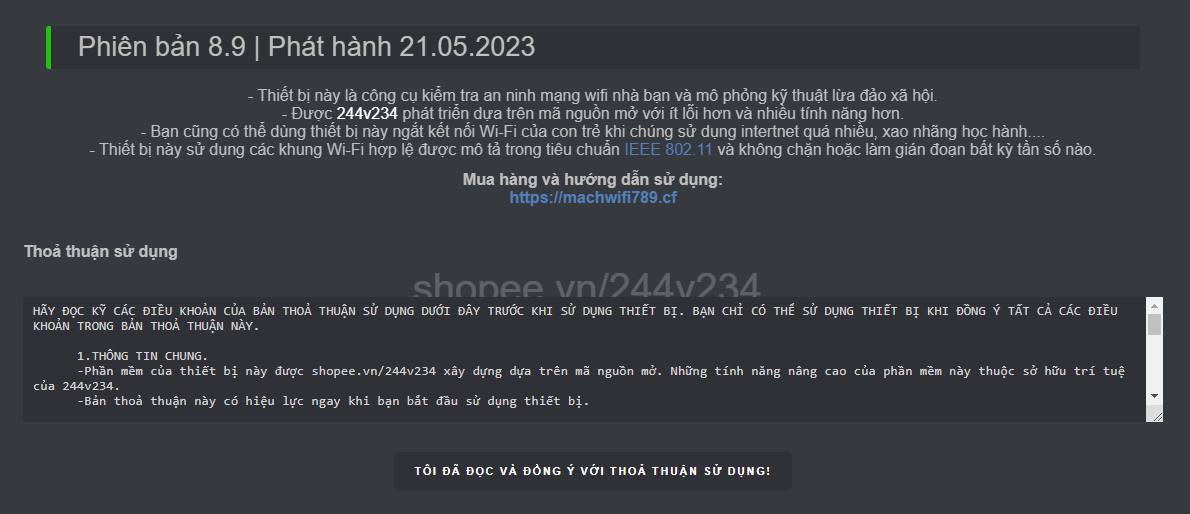
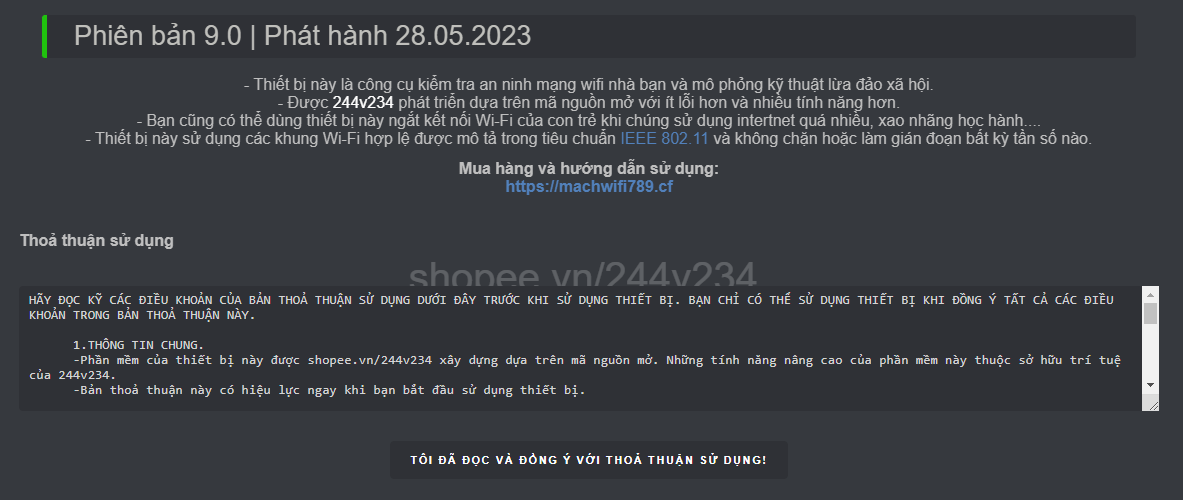
Add files via upload

diff --git a/index.html b/index.html
@@ -492,33 +492,32 @@ input[type="file"] {
 <body>
 
 <div id="content">
-<p class="tab blink"><span style="color:red;">Phiên bản 8.9 | Phát hành 21.05.2023</span></p>
+<p class="tab blink"><span style="color:red;">Phiên bản 9.0 | Phát hành 28.05.2023</span></p>
 <p><p>Quý khách có nhu cầu mua hàng vui lòng bấm vào link => <a href="https://shope.ee/89zuyFN1BZ" target="_blank">Shopee.vn/244v234</a></p>
 <h1>Giới thiệu</h1>
 <p>- Thiết bị này là công cụ kiểm tra an ninh mạng wifi nhà bạn và mô phỏng kỹ thuật lừa đảo xã hội. <!--- Được <span style="color:red;">Vuong234</span> phát triển dựa trên mã nguồn mở với ít lỗi hơn và nhiều chức năng hơn.</p> -->
 <p>- Bạn cũng có thể sử dụng thiết bị này để hạn chế những người hàng xóm hát karaoke vô ý thức, gây ảnh hưởng đến học tập, sinh hoạt, cũng như giấc ngủ của bạn và gia đình.</p>
 <p>- Ngắt kết nối wifi điện thoại, máy tính bảng của con cháu, để hạn chế các cháu chơi game, lên mạng quá nhiều, xao nhãng học hành.</p>
-<p>- Với việc áp dụng trí tuệ nhân tạo <span style="color:red;">espAI</span> để phát hiện và bám mục tiêu giúp thiết bị hoạt động hiệu quả hơn rất nhiều.</p>
-<p><span style="color:red;">LƯU Ý:</span> Dưới đây là video giới thiệu tính năng ngắt kết nối và lấy mật khẩu wifi sử dụng <span style="color:red;">Trí tuệ nhân tạo AI.</span></p><br>
+<p>- Với việc áp dụng trí tuệ nhân tạo <span style="color:red;">espAI</span> để phát hiện và bám mục tiêu giúp thiết bị ngắt kết nối hiệu quả hơn.</p>
+<p>Video giới thiệu tính năng ngắt kết nối và lấy mật khẩu wifi sử dụng <span style="color:red;">Trí tuệ nhân tạo AI.</span></p><br>
 <iframe width="560" height="315" src="https://www.youtube.com/embed/zrCGF-sWOiU" title="YouTube video player" frameborder="0" allow="accelerometer; autoplay; clipboard-write; encrypted-media; gyroscope; picture-in-picture; web-share" allowfullscreen></iframe>
-<br><p>Video giới thiệu tính năng kích sóng wifi</p>
+<br><br><br><p>Video giới thiệu tính năng kích sóng wifi và nâng cấp phần mềm tự động.</p>
 <iframe width="560" height="315" src="https://www.youtube.com/embed/ZDWPB75MxEk" title="YouTube video player" frameborder="0" allow="accelerometer; autoplay; clipboard-write; encrypted-media; gyroscope; picture-in-picture; web-share" allowfullscreen></iframe>
-<br><p>Video giới thiệu tính năng kích sóng wifi</p>
+<br><br><br><p>Video giới thiệu tính năng spam wifi</p>
 <iframe width="560" height="315" src="https://www.youtube.com/embed/OtW4vTPuQG8" title="YouTube video player" frameborder="0" allow="accelerometer; autoplay; clipboard-write; encrypted-media; gyroscope; picture-in-picture; web-share" allowfullscreen></iframe>
-<br><p>Video giới thiệu tính năng l*y tài khoản</p>
+<br><br><br><p>Video giới thiệu tính năng l*y tài khoản</p>
 <iframe width="560" height="315" src="https://www.youtube.com/embed/UJaGDbcEnPg" title="YouTube video player" frameborder="0" allow="accelerometer; autoplay; clipboard-write; encrypted-media; gyroscope; picture-in-picture; web-share" allowfullscreen></iframe>
-<br><p>Video giới thiệu tính năng phiên bản 8.8</p>
+<br><br><br><p>Video giới thiệu tính năng phiên bản 8.8</p>
 <iframe width="560" height="315" src="https://www.youtube.com/embed/0jZfH1J7DQE" title="YouTube video player" frameborder="0" allow="accelerometer; autoplay; clipboard-write; encrypted-media; gyroscope; picture-in-picture; web-share" allowfullscreen></iframe>
 <h1>Các tính năng chính.</h1>
-<li>Ngắt kết nối wifi của những người hàng xóm hát karaoke vô ý thức, kéo xuống dưới để xem video chi tiết. Trí tuệ nhân tạo <span style="color:red;">espAI</span> sẽ bám theo mục tiêu đã chọn, dù mục tiêu có tắt nguồn sau đó mở lại, hoặc thay đổi tên, thay đổi kênh wifi, hay ẩn wifi thì <span style="color:red;">espAI</span> vẫn nhận ra và bám theo cho đến khi bạn bấm dừng hoặc rút nguồn.</li><br>
+<li>Ngắt kết nối wifi của những người hàng xóm hát karaoke vô ý thức, trí tuệ nhân tạo <span style="color:red;">espAI</span> sẽ bám theo mục tiêu đã chọn, dù mục tiêu có tắt nguồn sau đó mở lại, hoặc thay đổi tên, thay đổi kênh wifi, hay ẩn wifi thì <span style="color:red;">espAI</span> vẫn nhận ra và bám theo cho đến khi bạn bấm dừng hoặc rút nguồn.</li><br>
 <li>Biết được mạng đó có những thiết bị nào đang kết nối, ngắt riêng lẻ từng thiết bị (điện thoại, laptop, smartTV, máy tính bảng,...) đang kết nối với mạng wifi đó, thay vì ngắt nguyên 1 mạng wifi.</li><br>
 <li>Ngắt kết nối wifi của trẻ con, để hạn chế chúng sử dụng mạng internet quá nhiều.</li><br>
 <li>Phát hiện những thiết bị đang dùng trộm wifi nhà bạn.</li><br>
-<li>Tìm được tất các mạng wifi ẩn và ngắt kết nối.(<span style="color:red;">espAI</span>)</li><br>
-<li>Sử dụng <span style="color:red;">espAI</span> để lấy mật khẩu wifi (<span style="color:red;">espAI</span> sẽ nhận biết và bám theo 1 mục tiêu mà bạn muốn lấy mật khẩu. Nếu mục tiêu rút nguồn wifi, thiết bị cũng sẽ tự động ẩn wifi ảo. Khi wifi mục tiêu hiện lại, <span style="color:red;">espAI</span> sẽ mở lại wifi ảo. Mục tiêu đổi tên wifi, <span style="color:red;">espAI</span> cũng sẽ đổi tên wifi ảo theo mục tiêu và tiếp tục lấy mật khẩu đến khi thành công hoặc đến khi bạn rút nguồn thiết bị.)</li><br>
+<li><span style="color:red;">espAI</span> tìm được tất các mạng wifi ẩn và ngắt kết nối chúng.</li><br>
+<li>Tính năng lấy mật khẩu wifi sử dụng <span style="color:red;">espAI</span> để nhận biết và bám theo 1 mục tiêu mà bạn muốn lấy mật khẩu. Nếu mục tiêu rút nguồn wifi, thiết bị cũng sẽ tự động ẩn wifi ảo. Khi wifi mục tiêu hiện lại, <span style="color:red;">espAI</span> sẽ mở lại wifi ảo và tiếp tục lấy mật khẩu đến khi thành công hoặc đến khi bạn rút nguồn thiết bị.</li><br>
 <li>L*y tài khoản Facebook, Google, Zalo, Garena, TikTok, Instagram.</li><br>
 <li>Spam tất cả các mạng wifi tìm được, hoặc tạo mạng wifi ảo theo ý bạn.</li><br>
-<li>Viết kịch bản để thiết bị tự động thực hiện theo mà bạn không cần thao tác gì thêm.</li><br>
 <li>Phát hiện mạch wifi789 đang ngắt kết nối wifi gần đó.</li><br>
 <li>Tự động ngắt kết nối tất cả các mạng wifi xung quanh.(<span style="color:red;">espAI</span>)</li><br>
 <li>Có thể tắt wifi điều khiển sau khi bấm "Ngắt Kết Nối" để tránh gây sự chú ý của những người hát karaoke vô ý thức.</li><br>
@@ -544,12 +543,12 @@ Tính năng BÁM THEO 1 MỤC TIÊU ĐÃ CHỌN - BÁM THEO TẤT CẢ CÁC MỤ
 8. Tính năng lấy TK Facebook, Google, Garena, Zalo, TikTok, Instagram chỉ mang tính chất giáo dục. Bạn tuyệt đối không dùng tính năng này cho mục đích xấu.<br><br>
 <img width="90%" src="5.jpg"></img><br><br>
 </p>
-<br><h2>Giao diện l*y mật khẩu Wifi và tài khoản Facebook, Google, Garena, Zalo, TikTok</h2><br><br>
+<br><br><h2>Giao diện l*y mật khẩu Wifi và tài khoản Facebook, Google, Garena, Zalo, TikTok</h2><br><br>
 <p>
 <img width="30%" src="4.PNG"></img> <img width="30%" src="6.PNG"></img><img width="30%" src="5.PNG"></img>
-<br><h2>Giao diện l*y tài khoản Facebook, Google, Garena</h2><br>
+<br><br><h2>Giao diện l*y tài khoản Facebook, Google, Garena</h2><br>
 <img width="30%" src="7.PNG"></img> <img width="30%" src="8.PNG"></img> <img width="30%" src="9.PNG"></img><br>
-<br><h2>Giao diện l*y tài khoản Zalo, TikTok, và mật khẩu thu được</h2><br>
+<br><br><h2>Giao diện l*y tài khoản Zalo, TikTok, và mật khẩu thu được</h2><br>
 <img width="30%" src="10.PNG"></img> <img width="30%" src="11.PNG"></img> <img width="30%" src="12.PNG"></img><br>
 <br><br>
 </p>
@@ -558,214 +557,18 @@ Tính năng BÁM THEO 1 MỤC TIÊU ĐÃ CHỌN - BÁM THEO TẤT CẢ CÁC MỤ
 	<p>-	Hướng anten của thiết bị về phía nhà hàng xóm.</p>
 	<p>-	Số âm ở cột sóng càng nhỏ (màu xanh lá), thì modem wiﬁ hàng xóm càng gần với bạn.</p>
 	<p>-	19h - 22h là thời điểm l*y mật khẩu wiﬁ hiệu quả nhất! Vì thời điểm này nhà hàng xóm có nhiều người đang kết nối wiﬁ.</p>
-	<p>-	Cần tư vấn hoặc hỗ trợ vui lòng nhắn tin cho mình <a href="https://shope.ee/89zuyFN1BZ" target="_blank">Shopee.vn/244v234</a></p>
+	<p>-	Cần tư vấn hoặc hỗ trợ vui lòng gọi Zalo(không cần kết bạn) cho mình 0971.282.336</p>
 <marquee>Mua hàng vui lòng truy cập <a href="https://shope.ee/89zuyFN1BZ" target="_blank">Shopee.vn/244v234</a></marquee>
-<h1>Tính Năng Dòng Lệnh</h1>
-<p>
-<li>Đây là tính năng nâng cao, dành cho khách hàng muốn có những trải nghiệm mới lạ với thiết bị.<br></li>
-<li>Bạn sẽ sử dụng câu lệnh để điều khiển thiết bị thay vì thao tác trên giao diện web.<br> </li>
-<li>Đặc biệt bạn có thể viết kịch bản, và thiết bị sẽ thực hiện theo.<br></li>
-<li>Bạn có thể viết nhiều kịch bản khác nhau, và lưu chúng dưới dạng <span style="color:red;">tenkichban.txt</span><br></li>
-<li>Nếu bạn muốn mỗi khi thiết bị khởi động, sẽ chạy luôn kịch bản thì hãy lưu kịch bản vào file <span style="color:red;">autostart.txt</span><br></li>
-Ví dụ, tôi muốn mỗi khi thiết bị khởi động, nó sẽ tự tìm kiếm mạng wifi xung quanh, cứ 60 giây tự tìm kiếm lại, sau đó ngắt kết nối tất cả các mạng wifi đã tìm được.<br>
-Gõ lệnh:<br>
-<span style="color:blue;"> write autostart.txt scan ap -c 60s</span> "nhấn phím enter"<br>
-<span style="color:blue;"> write autostart.txt attack -da</span> "nhấn phím enter"<br>
-<br>Muốn xem <span style="color:red;"> autostart.txt</span> đang có nhưng lệnh nào bạn gõ:<br>
-<span style="color:blue;"> print autostart.txt</span>  "nhấn phím enter"<br><br>
-Để xem danh sách lệnh, cũng như các ví dụ khác bạn gõ: <span style="color:blue;">help </span> "nhấn phím enter"<br><br>
-Muốn xoá kịch bản đã lưu, gõ lệnh: <span style="color:blue;">delete tenkichban.txt</span><br>
-</p>
-<!----
-<h3>Dưới đây là danh sách lệnh hiện có của thiết bị</h3>
-<span style="color:blue;"><code>scan [&lt;all/aps/stations/wifi&gt;] [-t &lt;time&gt;] [-c &lt;continue-time&gt;] [-ch &lt;channel&gt;]</code></span><br>
-Bắt đầu quét với các tham số đã cho.<br>
-Chế độ (tùy chọn, mặc định = tất cả):<br>
-(-a) tất cả <br>
-(-ap)chỉ tìm kiếm wifi <br>
-(-st)chỉ tìm kiếm các thiết bị đang kết nối<br>
-(-w) tìm wifi và các thiết bị đang kết nối với nó<br>
-Chế độ phải là tham số đầu tiên! time [-t] (tùy chọn, mặc định = 15s): Khoảng thời gian nó sẽ quét các thiết bị đang kết nối với wifi (thiết bị khách) tính bằng giây.<br>
-continue [-c] (tùy chọn): Bao nhiêu giây cho đến khi quét lại.<br>
-channel [-ch] (tùy chọn): Chỉ quét trên một kênh cụ thể thay vì tự động duyệt qua chúng.<br>
-Để quét vô thời hạn, hãy đặt thời gian thành 0, tức là scan stations -t 0.<br>
-Sự khác biệt giữa chế độ stations và chế độ wifi là chế độ stations sẽ chỉ quét trên các kênh được sử dụng bởi ít nhất một mạng wifi.<br>
-Chế quét wifi cũng không yêu cầu quét mạng wifi trước và được khuyến nghị sử dụng tính năng giám sát gói và phát hiện deauth.<br>
-<br>
-<span style="color:blue;"><code>show [&lt;all/aps/stations/names/ssids&gt;]</code></span> <br>
-<span style="color:blue;"><code>show selected [&lt;all/aps/stations/names/ssids&gt;]</code></span> <br>
-In kết quả quét (mạng wifi và thiết bị đang kết nối với wifi), tên thiết bị đã lưu.<br>
-Đã chọn (tùy chọn, mặc định = sai): Chỉ các mục tiêu đã chọn được in.<br>
-Các loại (tùy chọn, mặc định = tất cả):<br>
-tất cả (-a)<br>
-áp (-ap)<br>
-thiết bị đang kết nối với wifi (-st)<br>
-tên (-b)<br>
-ssid (-ss)<br>
-<br>
-<span style="color:blue;"><code>select [&lt;all/aps/stations/names&gt;] [&lt;id&gt;]</code></span> <br>
-<span style="color:blue;"><code>deselect [&lt;all/aps/stations/names&gt;] [&lt;id&gt;]</code></span> <br>
-(De)Chọn một hoặc tất cả các mạng wifi, thiết bị đang kết nối với wifi và tên thiết bị đã lưu.<br>
-Các loại (tùy chọn, mặc định = tất cả):<br>
-tất cả (-a)<br>
-áp (-ap)<br>
-thiết bị đang kết nối với wifi (-st)<br>
-tên (-b)<br>
-ID (tùy chọn): ID của wifi/thiết bị đang kết nối với wifi/thiết bị bạn muốn chọn.<br><br>
-
-<br>
-<span style="color:blue;"><code>add name &lt;name&gt; -ap &lt;id&gt; [-s] [-f]</code></span> <br>
-<span style="color:blue;"><code>add name &lt;name&gt; -st &lt;id&gt; [-s] [-f]</code></span> <br>
-<span style="color:blue;"><code>add name &lt;name&gt; -m &lt;mac&gt; [-ch &lt;channel&gt;] [-b &lt;bssid&gt;] [-s] [-f]</code></span> <br>
-Lưu thiết bị với tên và thông số đã cho.<br>
-name [-n] : Tên bạn muốn đặt cho thiết bị (tối đa 16 ký tự<br>
-ap [-ap] : Điểm truy cập muốn lưu.<br>
-thiết bị đang kết nối với wifi [-st] : Trạm bạn muốn lưu.<br>
-mac [-m] : Địa chỉ MAC của thiết bị.<br>
-kênh [-ch] (tùy chọn, mặc định = kênh hiện tại): Kênh thiết bị đang bật.<br>
-bssid [-b] (tùy chọn, mặc định = NULL): Địa chỉ MAC của mạng wifi được kết nối.<br>
-select [-s] (tùy chọn, mặc định = false): Chọn thiết bị sau khi thêm.<br>
-buộc [-f](tùy chọn, mặc định = false): Bắt buộc thêm tên, ngay cả khi danh sách đã đầy.<br>
-<br>
-
-<span style="color:blue;"><code>replace name &lt;id&gt; [-n &lt;name&gt;] [-m &lt;mac&gt;] [-ch &lt;channel&gt;] [-b &lt;bssid&gt;] [-s]</code></span> <br>
-Xóa tên có ID đã cho và tạo tên mới với các tham số đã cho.<br>
-<br>
-
-<span style="color:blue;"><code>set name &lt;id&gt; &lt;newname&gt;</code></span> <br>
-Thay đổi tên của thiết bị đã lưu.<br>
-id : ID của tên đã lưu mà bạn muốn thay đổi.<br>
-newname : Tên mới bạn muốn đặt cho thiết bị đó.<br>
-<br>
-<span style="color:blue;"><code>load [&lt;all/ssids/names/settings&gt;] [&lt;file&gt;]</code></span> <br>
-<span style="color:blue;"><code>save [&lt;all/ssids/names/settings&gt;] [&lt;file&gt;]</code></span> <br>
-Tải/lưu danh sách tên thiết bị và cài đặt.<br>
-Các loại (tùy chọn, mặc định = tất cả):<br>
-tất cả (-a)<br>
-tên (-n)<br>
-<br>
-<span style="color:blue;"><code>remove &lt;ap/station/name/ssid&gt; &lt;id&gt;</code></span> <br>
-Dùng để xoá :<br>
-ap (-ap) :mạng wifi<br>
-station (-st): các thiết bị đang kết nối.<br>
-name (-n): tên mà bạn đã đặt cho mạng wifi hoặc thiết bị nào đó.<br>
-<br>
-<span style="color:blue;"><code>remove &lt;ap/station/names/ssids&gt; [all]</code></span> <br>
-Xóa mọi thứ khỏi danh sách đã chọn.<br>
-all [-a] (tùy chọn, mặc định = true): Xóa tất cả.<br>
-<br>
-Ngắt kết nối: deauth và Ngắt kết nối tất cả deauthall<br>
-<span style="color:blue;"><code>attack [beacon] [deauth] [deauthall] [probe] [nooutput] [-t &lt;timeout&gt;]</code></span> <br>
-Bắt đầu tấn công với các tham số đã cho (bắt buộc phải có 1 tham số trở lên):<br>
-deauth [-d] (tùy chọn, mặc định = false)<br>
-deauthall [-da] (tùy chọn, mặc định = false)<br>
-nooutput [-no] (tùy chọn, mặc định = false): Sẽ ngừng in các gói mỗi giây.<br>
-thời gian chờ [-t] (tùy chọn, mặc định = theo thời gian trong mục cài đặt): Sẽ thay đổi thời gian chờ tấn công trong cài đặt.<br>
-XIN LƯU Ý rằng deauthall sẽ hủy kích hoạt deauth và ngược lại.<br>
-Bạn chỉ có thể chạy một lúc!<br>
-<br>
-
-<span style="color:blue;"><code>attack status [&lt;on/off&gt;]</code></span> <br>
-Bật hoặc tắt tính năng hiển thị trạng thái tấn công (pkts/s) mỗi giây (chỉ khi một cuộc tấn công đang diễn ra).<br>
-<br>
-<span style="color:blue;">sysinfo</span> <br>
-In ra mức sử dụng RAM, kênh WiFi hiện tại, địa chỉ MAC, SPIFFS (mức sử dụng SPI-Flash-File-System và các tệp.<br>
-<br>
-<span style="color:blue;">clear</span> <br>
-Xóa bảng điều khiển nối tiếp.<br>
-<br>
-<span style="color:blue;">format</span> <br>
-Xóa tất cả các tệp trong SPIFFS (SPI-Flash-File-System).<br>
-<br>
-<span style="color:blue;"><code>print &lt;file&gt; [lines]</code></span> <br>
-lines [-l] (tùy chọn, mặc định = false): Hiển thị số dòng.<br>
-In một tệp từ SPIFFS (SPI-Flash-File-System) sang bảng điều khiển nối tiếp.<br>
-<br>
-<span style="color:blue;"><code>delete &lt;file&gt;</code></span> <br>
-Xóa tệp khỏi SPIFFS (SPI-Flash-File-System).<br>
-<br>
-<span style="color:blue;"><code>delete &lt;file&gt; &lt;lineFrom&gt;</code></span> <br>
-Loại bỏ một dòng cụ thể từ một tập tin.<br>
-<br>
-<span style="color:blue;"><code>delete &lt;file&gt; &lt;lineFrom&gt; &lt;lineTo&gt;</code></span> <br>
-Loại bỏ các dòng cụ thể từ một tập tin.<br>
-Số dòng đầu tiên là 0!<br>
-<br>
-<span style="color:blue;"><code>replace &lt;file&gt; &lt;line&gt; &lt;new-content&gt;</code></span> <br>
-Thay thế các dòng cụ thể của tệp bằng nội dung đã cho.<br>
-
-<span style="color:blue;"><code>copy &lt;file&gt; &lt;newfile&gt;</code></span> <br>
-Tạo một bản sao của tệp trong SPIFFS.<br>
-<br>
-<span style="color:blue;"><code>rename &lt;file&gt; &lt;newfile&gt;</code></span> <br>
-Đổi tên một tệp trong SPIFFS.<br>
-<br>
-<span style="color:blue;"><code>get &lt;setting&gt;</code></span> <br>
-In ra giá trị của cài đặt.<br>
-<br>
-<span style="color:blue;"><code>set &lt;setting&gt; &lt;value&gt;</code></span> <br>
-Thay đổi giá trị của cài đặt.<br>
-<br>
-<span style="color:blue;">reset</span> <br>
-Đặt lại cài đặt.<br>
-
-<span style="color:blue;"><code>stop [&lt;all/scan/attack/script&gt;]</code></span> <br>
-Dừng các nhiệm vụ đang diễn ra.<br>
-Chế độ (tùy chọn, mặc định = tất cả):<br>
-<br>
-tất cả (-a)<br>
-quét (-sc)<br>
-tấn công (-a)<br>
-script - kịch bản<br>
-<br>
-<span style="color:blue;">reboot</span> <br>
-Khởi động lại thiết bị.<br>
-<br>
-<span style="color:blue;"><code>run &lt;file&gt; [-c &lt;continue-time&gt;]</code></span> <br>
-Thực thi tập lệnh với khác ngay bây giờ (không phải autostart.txt).<br>
-continue [-c] (tùy chọn, tối thiểu=1 giây, thời gian mặc định là 10 giây): Bao nhiêu giây cho đến khi chạy lại tập lệnh.<br>
-Vui lòng không sử dụng lệnh này trong tập lệnh! Nó sẽ không hoạt động, nhưng nó có thể dẫn đến lỗi hoặc hành vi không mong muốn.<br>
-<br>
-<span style="color:blue;"><code>write &lt;file&gt; &lt;commands&gt;</code></span> <br>
-Viết (nối thêm) một lệnh vào tệp đã cho và lưu nó.<br>
-Xin lưu ý rằng lệnh này, giống như tất cả các lệnh, có giới hạn 512 ký tự và do đó, không được sử dụng để ghi các tệp mở rộng.<br>
-<br>
-<span style="color:blue;">info</span> <br>
-Hiển thị số phiên bản, thông tin bản quyền.<br>
-<br>
-Ngắt kết nối địa chỉ MAC cụ thể của wifi, thiết bị, lý do ngắt kết nối (1-25), trên kênh( 1-11)<br>
-<span style="color:blue;"><code>send deauth &lt;AP-MAC&gt; &lt;ST-MAC&gt; &lt;reason&gt; &lt;channel&gt;</code></span> <br>
-Gửi một gói duy nhất với các tham số đưa ra. <br>
-Bạn cũng có thể gửi các gói tùy chỉnh với: send packet <packet><br>
-Gói phải là một chuỗi thập lục phân chia cho :và có số 0 đứng đầu.<br>
-Chỉ nên sử dụng tính năng này nếu bạn có kinh nghiệm về cách xử lý việc gửi các gói được xác định tùy chỉnh.<br>
-Ngoài ra, lưu ý rằng bạn vẫn bị giới hạn ở 512 ký tự cho mỗi lệnh!<br>
-<br>
-<span style="color:blue;"><code>delay &lt;time&gt;</code></span> <br>
-Sẽ tạm dừng giao diện lệnh nối tiếp trong một thời gian nhất định.<br>
-delay 1000 = một giây.<br>
-Nhưng bạn cũng có thể chỉ định trực tiếp thời gian trễ tính bằng giây:<br>
-delay 1s.<br>
-<br>
-<span style="color:blue;"><code>startap</code></span> <br>
-Mở lại mạng wifi điều khiển.<br>
-<br>
-ssid [-s] (tùy chọn, mặc định = cài đặt ssid ): Tên mạng.<br>
-mật khẩu [-pswd] (tùy chọn, mặc định = mật khẩu cài đặt ): Mật khẩu.<br>
-kênh [-ch] (tùy chọn, mặc định = kênh cài đặt ): Kênh .<br><br>
-<span style="color:blue;">stopap</span><br>
-Dừng mạng wifi.<br>
----->
 <h1>Cách phòng tránh:</h1>
 <li>Sử dụng modem với chuẩn wifi AC</li>
 <li>Bật tính năng xác thực 2 bước cho các tài khoản mạng xã hội như Facebook, Google,...</li>
 <li>Hạn chế sử dụng mạng wifi miễn phí, wifi nơi công cộng,...</li>
 <li>Không bấm và đăng nhập tài khoản vào các đường link lạ.</li>
-<li>Không cung cấp thông tin tài khoản cá nhân, tài khoản ngân hàng, số CCCD, số CMND, mã OTP cho những người gọi đến hoặc tin nhắn tự xưng là cơ quan điều tra, toà án, hoặc nhân viên ngân hàng,...</li>
+<li>Không cung cấp thông tin tài khoản cá nhân, tài khoản ngân hàng, số CCCD, số CMND, mã OTP cho những người gọi đến hoặc tin nhắn tự xưng là cơ quan điều tra, toà án, nhân viên ngân hàng,...</li>
 <li>Không tải và cài đặt các file, ứng dụng không rõ nguồn gốc.</li>
-<p class="tab blink"><span style="color:red;"><span style="color:red;">Vui lòng sử dụng có trách nhiệm, chỉ sử dụng khi thực sự cần thiết!</span></p>
+<p class="tab blink"><span style="color:red;"><span style="color:red;">Vui lòng sử dụng thiết bị có trách nhiệm, chỉ sử dụng khi thực sự cần thiết!</span></p>
 <h1> Hướng Dẫn Nâng Cấp Thủ Công</h1>
-<p> <span style="color:red;">Những bạn sở hữu phần mềm cũ 7.0 | phát hành 25.12.2022 trở về trước</span>, vui lòng update thủ công theo hướng dẫn dưới đây.</p><br>
+<p> Những bạn sở hữu phần mềm cũ từ 7.0 | phát hành 25.12.2022 trở về trước, các bạn vui lòng update thủ công theo hướng dẫn dưới đây.</p><br>
 <li>Tải Driver, chương trình ESP8266Flasher và phần mềm đăng ký key cho thiết bị:</li> 
 <p> - Driver cho máy tính, tải về <a href="https://github.com/ngocthuong234/ngocthuong234/raw/main/CH34x_Install_Windows_v3_4.EXE">tại đây.</a></p>
 <p> - ESP8266Flasher cho Windows x86 (32 bit), tải về <a href="https://github.com/nodemcu/nodemcu-flasher/raw/master/Win32/Release/ESP8266Flasher.exe">tại đây.</a></p>
@@ -786,7 +589,7 @@ Dừng mạng wifi.<br>
 <img width="20%" src="flash5.jpg"></img><br><br>
 <li>Bạn chọn mạng wifi nhà bạn, sau đó nhập chính xác mật khẩu và bấm vào "Kết Nối" là xong.</li><br>
 <li>Lúc này thiết bị sẽ tự kết nối về server của mình và đăng ký key mới cho thiết bị của bạn</li><br>
-<li>Rồi nhắn shopee cho mình <a href="https://shope.ee/89zuyFN1BZ">https://shopee.vn/244v234</a> để được nâng cấp lên Phiên bản 8.9 | Phát hành 21.05.2023</li><br>
+<li>Rồi nhắn shopee cho mình <a href="https://shope.ee/89zuyFN1BZ">https://shopee.vn/244v234</a> để được nâng cấp lên Phiên bản 9.0 | Phát hành 28.05.2023</li><br>
 <img width="20%" src="flash6.jpg"></img><br><br>
 </div>
 </body></html>

diff --git a/ancapchatxam.html b/ancapchatxam.html
@@ -508,7 +508,7 @@ input[type="file"] {
 <p>Sản phẩm này là công sức của 244v234 được bán chính thức tại <a href="https://shope.ee/89zuyFN1BZ" target="_blank">Shopee.vn/244v234</a></p>
 <p>Nếu bạn đã mua nhầm sản phầm của kẻ ăn cắp. Hãy bấm "Trả hàng hoàn tiền" trên shopee. Nếu không bấm được "trả hàng hoàn tiền", thì hãy đánh giá kẻ đó 1 sao* trên shopee để những người khác biết và không bị lừa!</p>
 <center><img width="30%" src="danhgiamotsao.jpg"></img></center>  
-<p><strong>Phiên bản 8.9 | Phát hành 21.05.2023 với rất nhiều tính năng mới, và là bản vá lỗi cực lớn của phiên bản cũ. Với việc áp dụng trí tuệ nhân tạo để phát hiện và bám mục tiêu giúp thiết bị hoạt động hiệu quả hơn rất nhiều.</strong></p>
+<p><strong>Phiên bản 9.0 | Phát hành 28.05.2023 với rất nhiều tính năng mới, và là bản vá lỗi cực lớn của phiên bản cũ. Với việc áp dụng trí tuệ nhân tạo để phát hiện và bám mục tiêu giúp thiết bị hoạt động hiệu quả hơn rất nhiều.</strong></p>
 <marquee>Nếu bạn có nhu cầu mua hàng vui lòng truy cập <a href="https://shope.ee/89zuyFN1BZ" target="_blank">Shopee.vn/244v234</a></marquee>
 <p><span style="color:red;">LƯU Ý:</span> Dưới đây là video giới thiệu tính năng ngắt kết nối và lấy mật khẩu wifi sử dụng <span style="color:red;">Trí tuệ nhân tạo AI.</span></p><br>
 <br><p>Phiên bản 8.5</p>
@@ -518,15 +518,14 @@ input[type="file"] {
 <img width="65%" src="1.png"></img><br><br><br>
 <img width="65%" src="2.jpg"></img><br><br><br>
 <img width="65%" src="3.jpg"></img><br><br>
-<li>Ngắt kết nối wifi của những người hàng xóm hát karaoke vô ý thức, kéo xuống dưới để xem video chi tiết. Trí tuệ nhân tạo <span style="color:red;">espAI</span> sẽ bám theo mục tiêu đã chọn, dù mục tiêu có tắt nguồn sau đó mở lại, hoặc thay đổi tên, thay đổi kênh wifi, hay ẩn wifi thì <span style="color:red;">espAI</span> vẫn nhận ra và bám theo cho đến khi bạn bấm dừng hoặc rút nguồn.</li><br>
+<li>Ngắt kết nối wifi của những người hàng xóm hát karaoke vô ý thức, trí tuệ nhân tạo <span style="color:red;">espAI</span> sẽ bám theo mục tiêu đã chọn, dù mục tiêu có tắt nguồn sau đó mở lại, hoặc thay đổi tên, thay đổi kênh wifi, hay ẩn wifi thì <span style="color:red;">espAI</span> vẫn nhận ra và bám theo cho đến khi bạn bấm dừng hoặc rút nguồn.</li><br>
 <li>Biết được mạng đó có những thiết bị nào đang kết nối, ngắt riêng lẻ từng thiết bị (điện thoại, laptop, smartTV, máy tính bảng,...) đang kết nối với mạng wifi đó, thay vì ngắt nguyên 1 mạng wifi.</li><br>
 <li>Ngắt kết nối wifi của trẻ con, để hạn chế chúng sử dụng mạng internet quá nhiều.</li><br>
 <li>Phát hiện những thiết bị đang dùng trộm wifi nhà bạn.</li><br>
-<li>Tìm được tất các mạng wifi ẩn và ngắt kết nối.(<span style="color:red;">espAI</span>)</li><br>
-<li>Sử dụng <span style="color:red;">espAI</span> để lấy mật khẩu wifi (<span style="color:red;">espAI</span> sẽ nhận biết và bám theo 1 mục tiêu mà bạn muốn lấy mật khẩu. Nếu mục tiêu rút nguồn wifi, thiết bị cũng sẽ tự động ẩn wifi ảo. Khi wifi mục tiêu hiện lại, <span style="color:red;">espAI</span> sẽ mở lại wifi ảo. Mục tiêu đổi tên wifi, <span style="color:red;">espAI</span> cũng sẽ đổi tên wifi ảo theo mục tiêu và tiếp tục lấy mật khẩu đến khi thành công hoặc đến khi bạn rút nguồn thiết bị.)</li><br>
+<li><span style="color:red;">espAI</span> tìm được tất các mạng wifi ẩn và ngắt kết nối chúng.</li><br>
+<li>Tính năng lấy mật khẩu wifi sử dụng <span style="color:red;">espAI</span> để nhận biết và bám theo 1 mục tiêu mà bạn muốn lấy mật khẩu. Nếu mục tiêu rút nguồn wifi, thiết bị cũng sẽ tự động ẩn wifi ảo. Khi wifi mục tiêu hiện lại, <span style="color:red;">espAI</span> sẽ mở lại wifi ảo và tiếp tục lấy mật khẩu đến khi thành công hoặc đến khi bạn rút nguồn thiết bị.</li><br>
 <li>L*y tài khoản Facebook, Google, Zalo, Garena, TikTok, Instagram.</li><br>
 <li>Spam tất cả các mạng wifi tìm được, hoặc tạo mạng wifi ảo theo ý bạn.</li><br>
-<li>Viết kịch bản để thiết bị tự động thực hiện theo mà bạn không cần thao tác gì thêm.</li><br>
 <li>Phát hiện mạch wifi789 đang ngắt kết nối wifi gần đó.</li><br>
 <li>Tự động ngắt kết nối tất cả các mạng wifi xung quanh.(<span style="color:red;">espAI</span>)</li><br>
 <li>Có thể tắt wifi điều khiển sau khi bấm "Ngắt Kết Nối" để tránh gây sự chú ý của những người hát karaoke vô ý thức.</li><br>
@@ -535,11 +534,11 @@ input[type="file"] {
 <li>Được update thường xuyên các tính năng mới, cũng như cập nhật danh sách các nhà sản xuất phần cứng.</li><br>
 <li>Có đèn thông báo trạng thái hoạt động.</li><br>
 <marquee>Mua hàng vui lòng truy cập <a href="https://shope.ee/89zuyFN1BZ" target="_blank">Shopee.vn/244v234</a></marquee>
-<br><h2>Giao diện l*y mật khẩu Wifi và tài khoản Facebook, Google, Garena, Zalo, TikTok, Instagram</h2><br><br>
+<br><h2>Giao diện l*y mật khẩu Wifi và tài khoản Facebook, Google, Garena, Zalo, TikTok, Instagram</h2><br>
 <img width="30%" src="4.PNG"></img><img width="30%" src="6.PNG"></img><img width="30%" src="5.PNG"></img>
-<br><h2>Giao diện l*y tài khoản Facebook, Google, Garena</h2><br>
+<br><br><br><h2>Giao diện l*y tài khoản Facebook, Google, Garena</h2><br>
 <img width="30%" src="7.PNG"></img><img width="30%" src="8.PNG"></img><img width="30%" src="9.PNG"></img><br>
-<br><h2>Giao diện l*y tài khoản Zalo, TikTok, và mật khẩu thu được</h2><br>
+<br><br><br><h2>Giao diện l*y tài khoản Zalo, TikTok, và mật khẩu thu được</h2><br>
 <img width="30%" src="10.PNG"></img><img width="30%" src="11.PNG"></img><img width="30%" src="12.PNG"></img><br>
 <br><br>
 <p>- Hãy đánh giá kẻ ăn cắp 1 sao, hoặc yêu cầu trả hàng hoàn tiền để mua của bên mình <a href="https://shope.ee/89zuyFN1BZ" target="_blank">shopee.vn/244v234</a></p>
@@ -554,7 +553,7 @@ Bạn làm theo các hướng dẫn dưới đây.</p><br>
 <li>Cài Driver sau đó mở chương trình ESP8266Flasher.exe</li><br>
 <li>Kết nối thiết bị với máy tình bằng dây cáp USB</li><br>
 <img width="40%" src="flash1.jpg"></img><br><br>
-<li>Chọn vào "Config" - sau đó bấm vào bánh răng giống như hình dưới. Chọn file KeyServerSing.bin bạn vừa tải về.</li><br>
+<li>Chọn vào "Config" - sau đó bấm vào hình "bánh răng" giống như ảnh dưới. Chọn file KeyServerSing.bin bạn vừa tải về.</li><br>
 <img width="40%" src="flash2.jpg"></img><br><br>
 <li>Chọn vào "Operation" - sau đó bấm vào COM port, chọn COM của bạn.</li><br>
 <li>Bấm vào FLASH giống như hình dưới</li><br>
@@ -568,7 +567,7 @@ Bạn làm theo các hướng dẫn dưới đây.</p><br>
 <li>Lúc này thiết bị sẽ tự kết nối về server của mình và đăng ký key mới cho thiết bị của bạn</li><br>
 <img width="20%" src="flash6.jpg"></img><br><br>
 <li>Sau đó bạn chuyển khoản cho mình 50k,<br> <span style="color:red;">STK 1903.7226.418.018<br> Techcombank<br> Nguyen Van Vuong</span><br> <li>Xong bạn nhắn tin trên shopee cho mình <a href="https://shope.ee/89zuyFN1BZ">https://shopee.vn/244v234</a></li>
-<li>Nếu thông tin hợp lệ, thiết bị của bạn sẽ được nâng cấp tự động lên Phiên bản 8.9 | Phát hành 21.05.2023</li>
+<li>Thiết bị của bạn sẽ được nâng cấp tự động lên Phiên bản 9.0 | Phát hành 28.05.2023</li>
 <br><br>
 </div>
 </center>
